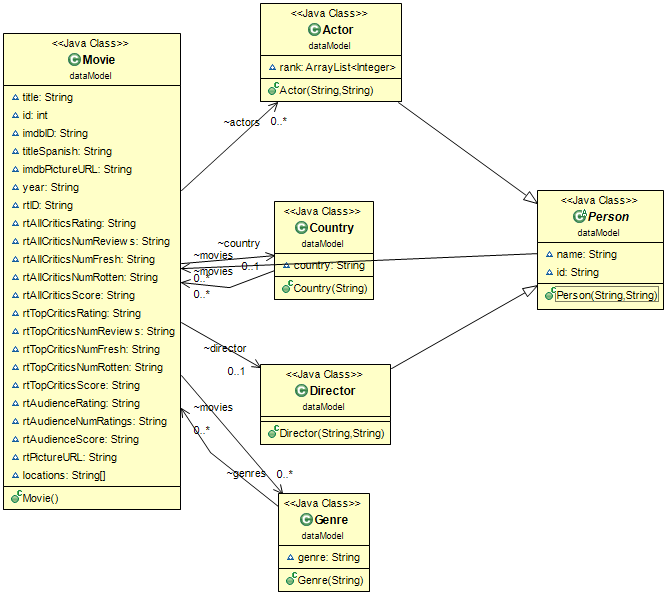
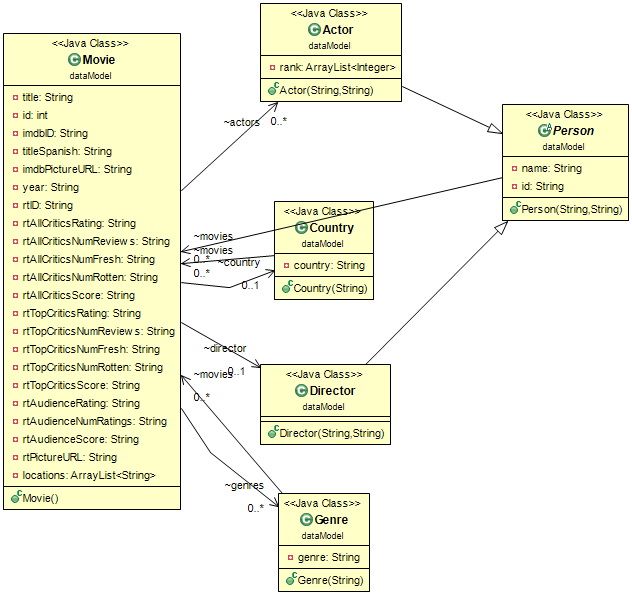
Global variable made private
made all the class variables private

diff --git a/src/dataModel/Movie.java b/src/dataModel/Movie.java
@@ -3,31 +3,31 @@ package dataModel;
 import java.util.ArrayList;
 
 public class Movie {
-	String title;
-	int id;
-	String imdbID;
-	String titleSpanish;
-	String imdbPictureURL;
-	String year;
-	String rtID;
-	String rtAllCriticsRating;
-	String rtAllCriticsNumReviews;
-	String rtAllCriticsNumFresh;
-	String rtAllCriticsNumRotten;
-	String rtAllCriticsScore;
-	String rtTopCriticsRating;
-	String rtTopCriticsNumReviews;
-	String rtTopCriticsNumFresh;
-	String rtTopCriticsNumRotten;
-	String rtTopCriticsScore;
-	String rtAudienceRating;
-	String rtAudienceNumRatings;
-	String rtAudienceScore;
-	String rtPictureURL;
-	Country country;
-	Director director;
-	ArrayList<Actor> actors;
-	ArrayList<Genre> genres;
-	ArrayList<String> locations;
+	private String title;
+	private int id;
+	private String imdbID;
+	private String titleSpanish;
+	private String imdbPictureURL;
+	private String year;
+	private String rtID;
+	private String rtAllCriticsRating;
+	private String rtAllCriticsNumReviews;
+	private String rtAllCriticsNumFresh;
+	private String rtAllCriticsNumRotten;
+	private String rtAllCriticsScore;
+	private String rtTopCriticsRating;
+	private String rtTopCriticsNumReviews;
+	private String rtTopCriticsNumFresh;
+	private String rtTopCriticsNumRotten;
+	private String rtTopCriticsScore;
+	private String rtAudienceRating;
+	private String rtAudienceNumRatings;
+	private String rtAudienceScore;
+	private String rtPictureURL;
+	private Country country;
+	private Director director;
+	private ArrayList<Actor> actors;
+	private ArrayList<Genre> genres;
+	private ArrayList<String> locations;
 
 }

diff --git a/src/dataModel/Person.java b/src/dataModel/Person.java
@@ -3,9 +3,9 @@ package dataModel;
 import java.util.ArrayList;
 
 public abstract class Person {
-	String name;
-	String id;
-	ArrayList<Movie> movies;
+	private String name;
+	private String id;
+	private ArrayList<Movie> movies;
 	
 	public Person(String n, String i ) {
 		

diff --git a/src/dataModel/Actor.java b/src/dataModel/Actor.java
@@ -5,7 +5,7 @@ import java.util.ArrayList;
 public class Actor extends Person{
 	
 	//list with the ranking of the actor in the movies.
-	ArrayList<Integer> rank;
+	private ArrayList<Integer> rank;
 
 	public Actor(String n, String i) {
 		super(n, i);

diff --git a/src/dataModel/Country.java b/src/dataModel/Country.java
@@ -4,8 +4,8 @@ import java.util.ArrayList;
 
 public class Country {
 	
-	String country;
-	ArrayList<Movie> movies;
+	private String country;
+	private ArrayList<Movie> movies;
 	
 	public Country(String c) {
 		

diff --git a/src/dataModel/Genre.java b/src/dataModel/Genre.java
@@ -4,8 +4,8 @@ import java.util.ArrayList;
 
 public class Genre {
 	
-	String genre;
-	ArrayList<Movie> movies;
+	private String genre;
+	private ArrayList<Movie> movies;
 	
 	public Genre(String g) {
 		
